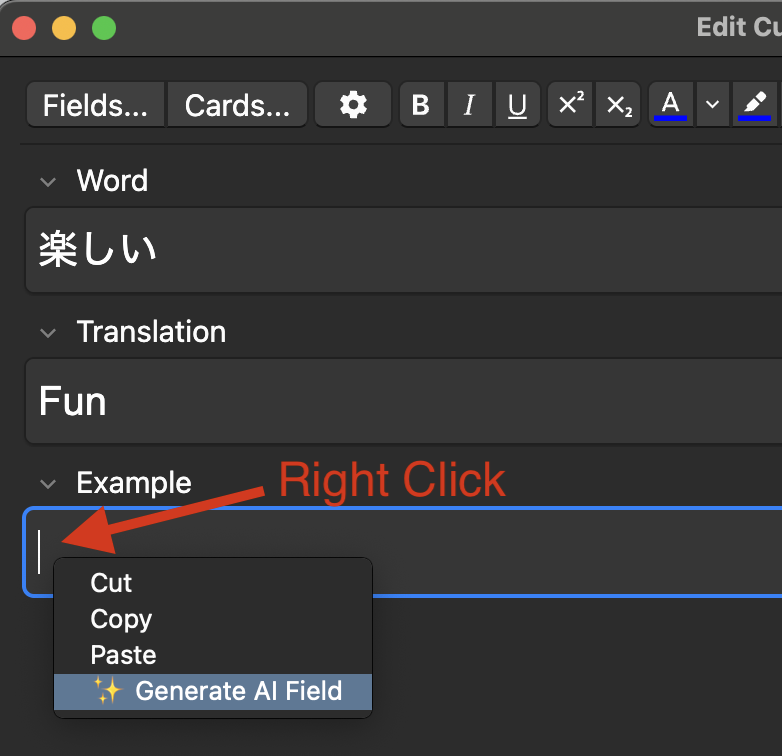
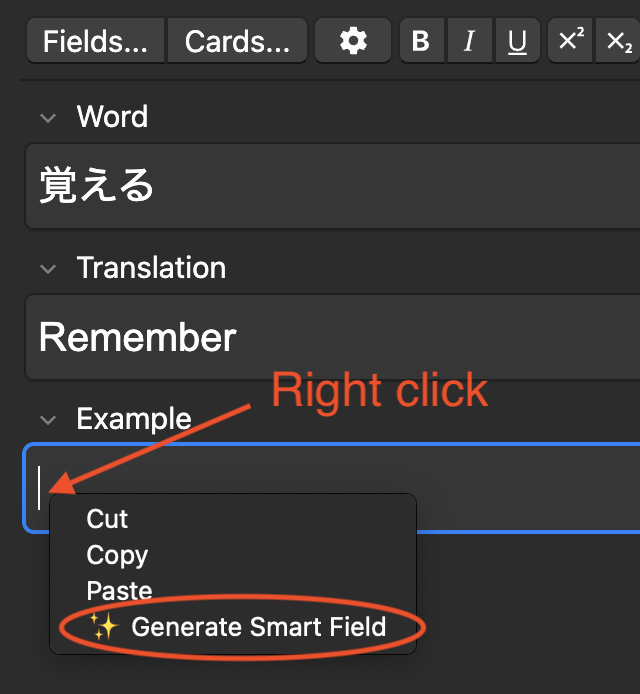
fixesw

diff --git a/README.md b/README.md
@@ -1,15 +1,15 @@
 # **Smart Notes** - supercharge Anki with AI generated fields ✨
 
-Use AI / ChatGPT to automatically & flexibly generate fields with {{templated}} prompting.
+Use AI / ChatGPT to automatically & flexibly generate fields with `{{templated}}` prompts.
 
 ## Usage
 
 1.  **Tools > Smart Notes:** set your <a href="https://platform.openai.com/api-keys">OpenAI API Key.</a>
 2.  **Add Smart Fields** (AI generated fields).
 
-    Set a note type, target card, and prompt.
+    Set a note type, target field, and prompt.
 
-    Prompts can reference any other field on the card with {{double curly braces}}.
+    Prompts can reference any other field on the card with `{{double curly braces}}.`
 
     ![Create Field](https://github.com/piazzatron/anki-smart-notes/blob/readme/resources/screenshots/create_field.gif?raw=true)
 
@@ -23,10 +23,12 @@ Use AI / ChatGPT to automatically & flexibly generate fields with {{templated}} 
 
 **Multiple ways to generate cards:**
 
-1. **Automatically at review:** A sparkle emoji will briefly shimmer. (We love sparkle).
-   This mode is particularly nice if you import notes via AnkiConnect (Yomichan, etc.) - no effort required.
+1. **Automatically at review:**
 
-   <img src="https://github.com/piazzatron/anki-smart-notes/blob/readme/resources/screenshots/sparkle.gif?raw=true" />
+This mode is particularly nice if you import notes via AnkiConnect (Yomichan, etc.) - no effort required.
+A sparkle emoji will briefly show to indicate the note was generated in the background (we love sparkle).
+
+ <img src="https://github.com/piazzatron/anki-smart-notes/blob/readme/resources/screenshots/sparkle.gif?raw=true" />
 
 2. **Add/Edit:** (Re)Generate entire card with the ✨ button.
 
@@ -48,8 +50,6 @@ Tools > Smart Notes > Advanced. Select from the newest gpt-4o to cheapest 3.5-tu
 
 Smart fields can reference as many other fields on your card as you like. Smart fields can't reference other smart fields – yet.
 
-_Smart Notes was initially inspired by <a href="https://ankiweb.net/shared/info/1416178071">Intellifiller</a>, which is sadly no longer supported in current Anki versions._
-
 ## Use Cases
 
 - Generate example sentence for language study
@@ -58,6 +58,8 @@ _Smart Notes was initially inspired by <a href="https://ankiweb.net/shared/info/
 - ... so many more!
 
 ## Additional Info
+
+_Smart Notes was initially inspired by <a href="https://ankiweb.net/shared/info/1416178071">Intellifiller</a>, which is sadly no longer supported in current Anki versions._
 
 **Installation**
 Restart Anki once you've installed the add-on. You will need an <a href="https://platform.openai.com/api-keys">OpenAI API key.</a>
